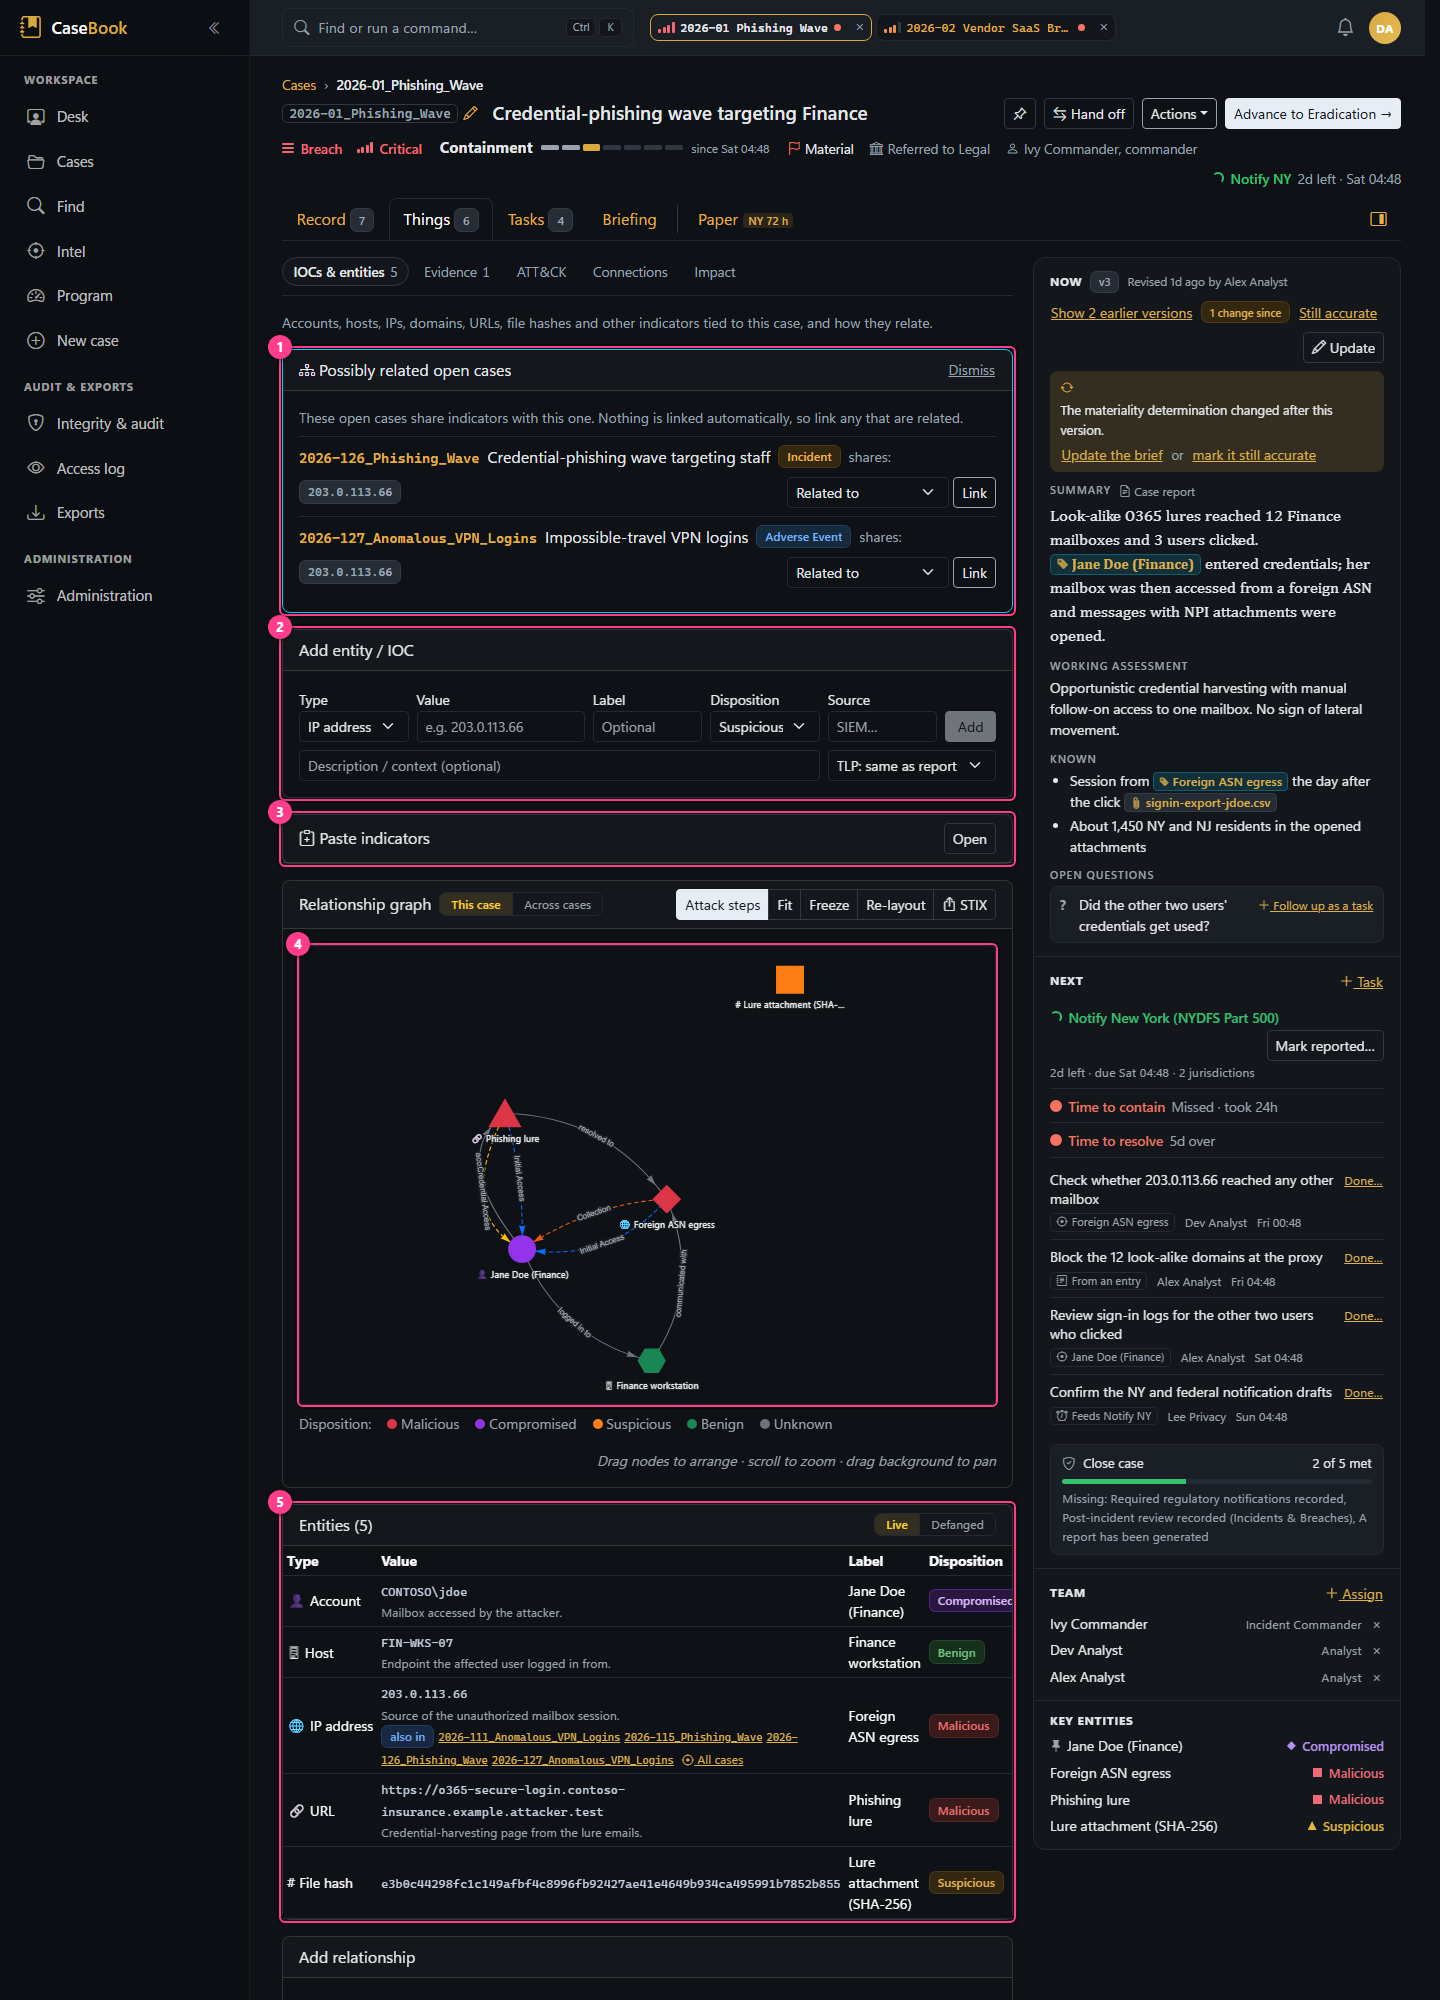
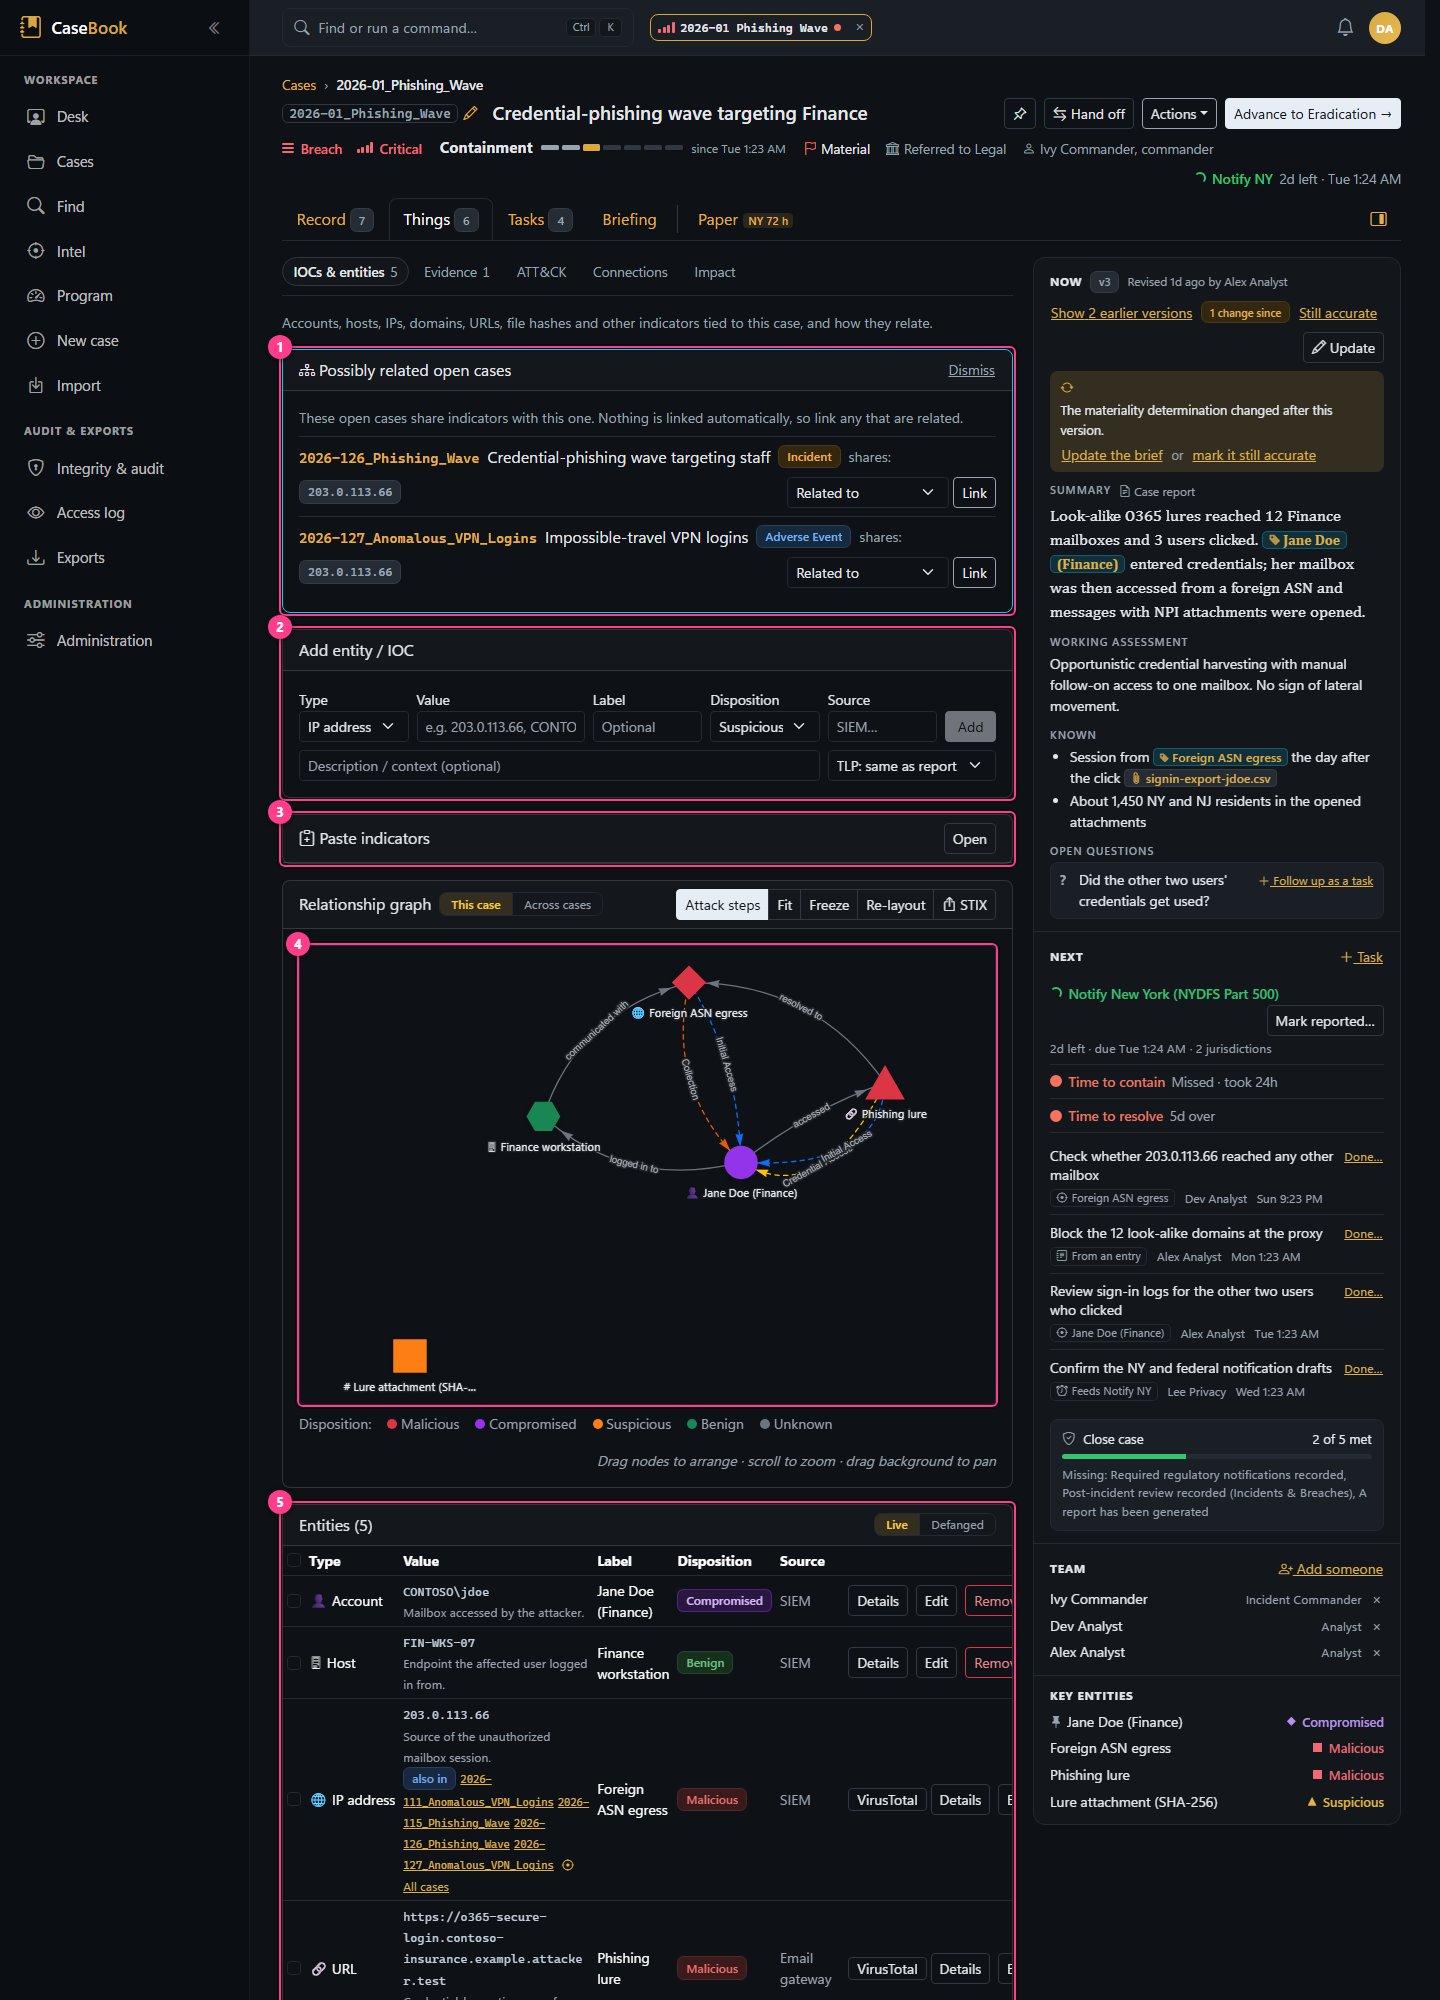
Entity values wrap so the verdict column stays in view; refreshed integrity and entities screenshots

diff --git a/src/IncidentManager.Web/wwwroot/app.css b/src/IncidentManager.Web/wwwroot/app.css
@@ -478,6 +478,9 @@ h1:focus {
 }
 .im-entity-tag:hover { background: color-mix(in srgb, var(--bs-info) 24%, transparent); text-decoration: none; }
 .im-entity-tag .bi { font-size: .82em; opacity: .8; }
+/* CAP-02: a long value in the entity list (a file hash, a URL) wraps, so the verdict column beside the new tick boxes
+   stays in view instead of running off the card. */
+.im-entity-value { overflow-wrap: anywhere; }
 /* BUG-411: a long value (a command line, a URL) wraps inside its chip instead of running past the row: the chip
    flows like text, each line keeping its own edges. A short one stays on one line as before. */
 .im-entity-tag {
